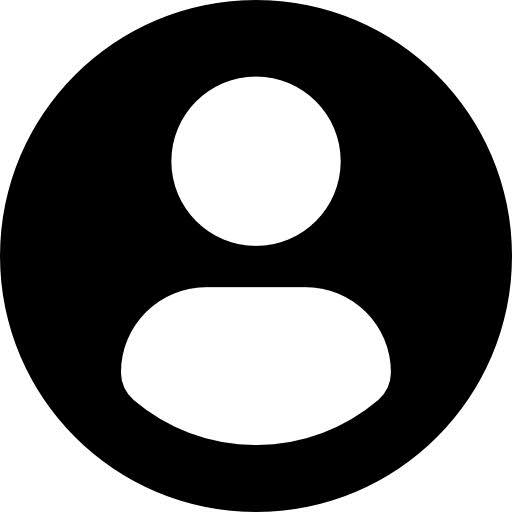
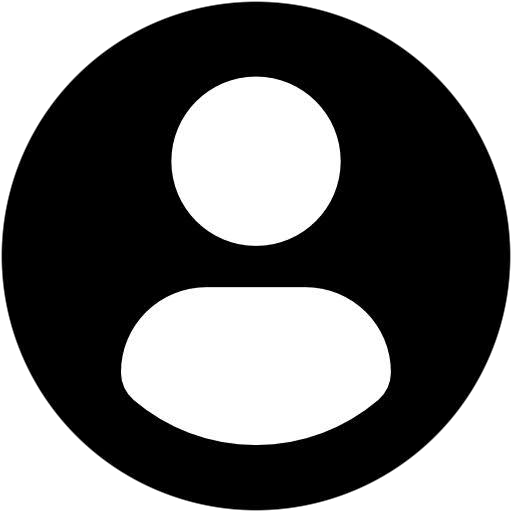
fix: revision 2 of M1

diff --git a/components/auth/BrandingPanel.tsx b/components/auth/BrandingPanel.tsx
@@ -26,6 +26,12 @@ export function BrandingPanel({ type }: { type: "main" | LoginRole }) {
           background-size: 200% auto;
           animation: bg-gradient-slow 8s linear infinite;
         }
+        .neon-red-outline-glow {
+          filter: drop-shadow(0 0 8px #ff0033)
+                 drop-shadow(0 0 18px #ff0033)
+                 drop-shadow(0 0 32px rgba(255, 0, 51, 0.9))
+                 drop-shadow(0 0 50px rgba(255, 0, 51, 0.65));
+        }
       `}} />
       <AnimatedGradient />
 
@@ -35,11 +41,10 @@ export function BrandingPanel({ type }: { type: "main" | LoginRole }) {
              initial={{ scale: 0, opacity: 0 }}
              animate={{ scale: 1, opacity: 1 }}
              transition={{ type: "spring", stiffness: 200, damping: 15 }}
-             className="w-32 h-32 mb-8 bg-white rounded-[2rem] p-3 shadow-[0_25px_40px_-15px_rgba(225,29,46,0.6)] relative flex items-center justify-center"
+             className="w-36 h-36 mb-6 relative flex items-center justify-center neon-red-outline-glow"
            >
-             <div className="absolute inset-x-6 -bottom-4 h-8 bg-[#E11D2E] blur-2xl opacity-80 z-0 mix-blend-screen pointer-events-none"></div>
-             <div className="relative w-full h-full rounded-2xl overflow-hidden z-10">
-               <Image priority src="/visuals/RNG_MAIN_LOGO_TRANSPARENT.png" alt="RNG Logo" fill unoptimized className="object-cover" />
+             <div className="relative w-full h-full">
+               <Image priority src="/visuals/RNG_MAIN_LOGO_TRANSPARENT.png" alt="RNG Logo" fill unoptimized className="object-contain" />
              </div>
            </motion.div>
            
@@ -54,12 +59,11 @@ export function BrandingPanel({ type }: { type: "main" | LoginRole }) {
              initial={{ scale: 0, opacity: 0 }}
              animate={{ scale: 1, opacity: 1 }}
              transition={{ type: "spring", stiffness: 200, damping: 15 }}
-             className="w-28 h-28 mb-6 bg-white rounded-[2rem] p-3 shadow-[0_20px_35px_-12px_rgba(225,29,46,0.6)] relative flex items-center justify-center"
+             className="w-32 h-32 mb-6 relative flex items-center justify-center neon-red-outline-glow"
            >
-             <div className="absolute inset-x-4 -bottom-3 h-6 bg-[#E11D2E] blur-xl opacity-70 z-0 pointer-events-none mix-blend-screen"></div>
-             <div className="relative w-full h-full rounded-2xl overflow-hidden z-10">
-               {type === 'register' && <Image priority src="/visuals/owner.jpg" alt="Register Icon" fill unoptimized className="object-cover" />}
-               {type === 'login' && <Image priority src="/visuals/staff.png" alt="Login Icon" fill unoptimized className="object-cover" />}
+             <div className="relative w-full h-full">
+               {type === 'register' && <Image priority src="/visuals/owner.jpg" alt="Register Icon" fill unoptimized className="object-contain" />}
+               {type === 'login' && <Image priority src="/visuals/staff.png" alt="Login Icon" fill unoptimized className="object-contain" />}
              </div>
            </motion.div>
            
